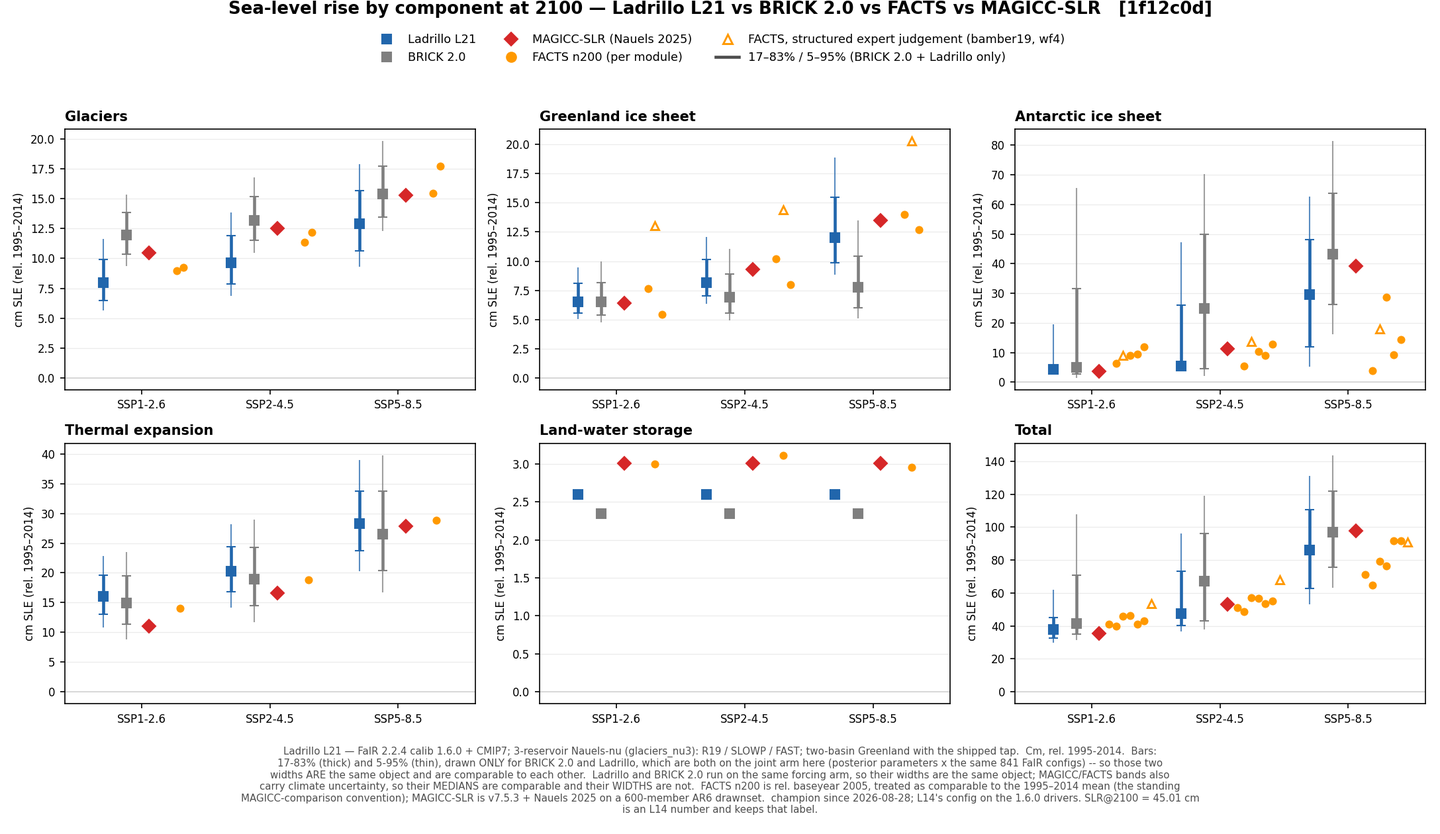
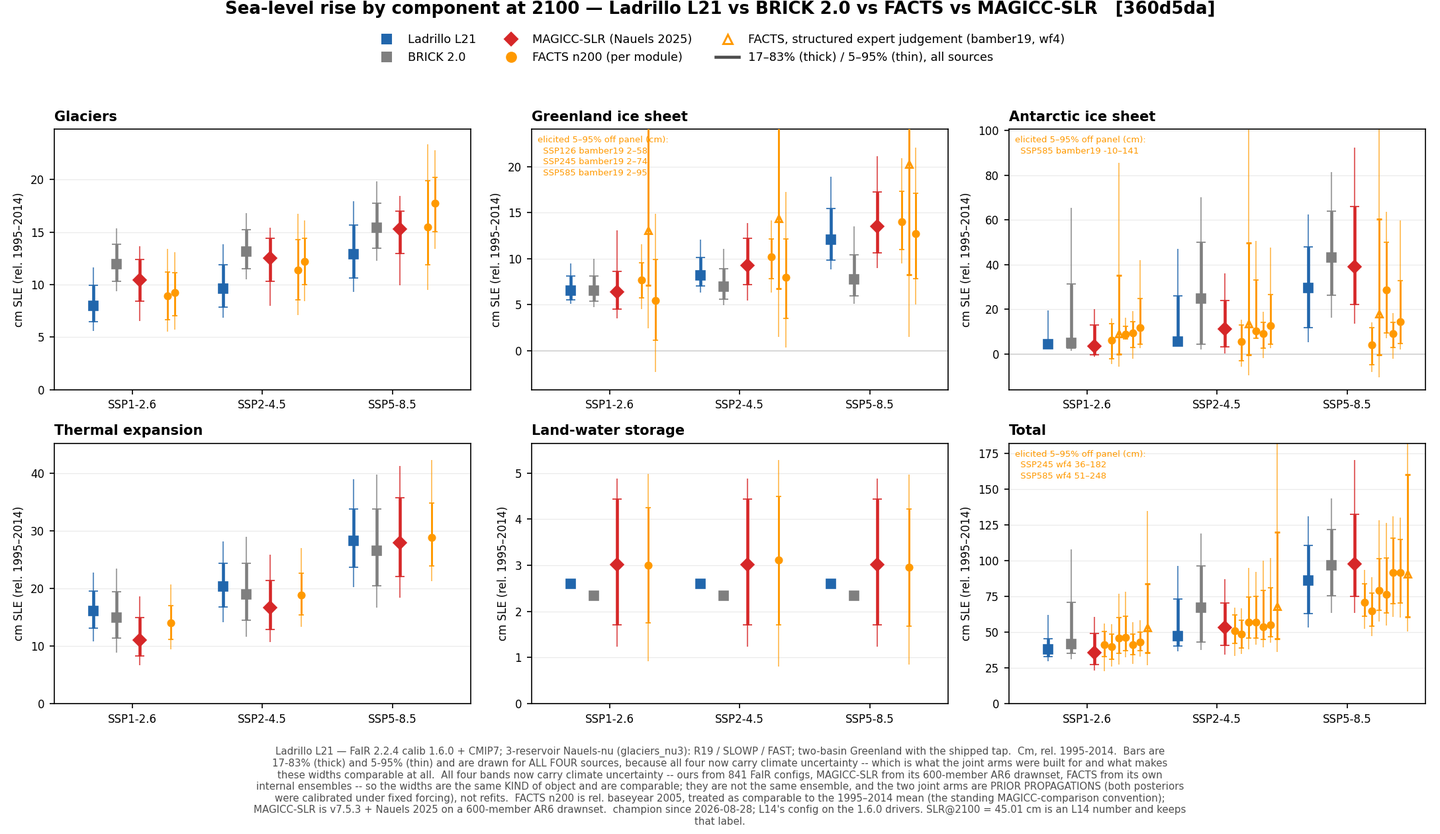
Draw all four bands, and withdraw the "not drivable" claim
Marcus asked whether we had not already built the arms that make our bands
comparable to MAGICC and FACTS. We had, on 2026-08-30, and this figure was
suppressing three of the four.

ladrillo_figs.WIDTH_SRCS restricted bars to Ladrillo and BRICK 2.0, with a
caveat that was true only while both our arms ran on MEAN forcing. The joint
arms propagate both posteriors across the same 841 FaIR configs precisely so
that stops being true -- brick20_joint_band records it as "every column of the
comparison now carries climate uncertainty, so the WIDTHS are like-for-like for
the first time". The source-name set is replaced by a predicate on each row's
own band_basis, which raises on an unrecognised string rather than guessing.

Verified against that memory's own table: total p17-p83 at ssp126/2100 comes
back Ladrillo 12.6, BRICK 35.8, MAGICC 21.5, FACTS wf1f 17.4 cm.

Mutation-testing caught a real bug: the parameter-only branch of the caption had
never executed and its literal % broke the format string.

Elicited whiskers are clipped and quantified rather than dropped or silently cut
-- bamber19's 5-95% at gis/ssp585/2100 spans 93.2 cm against 17.1 for the
next-widest module, and letting it set the axis costs ~5x of the resolution the
rest of the panel needs.

vv_model_comparison.py said MAGICC-SLR and FACTS were "not drivable" on the van
Vuuren markers. That was wrong: it read them as fixed data files because that is
[…]

diff --git a/python/plot_model_comparison_components.py b/python/plot_model_comparison_components.py
@@ -19,12 +19,24 @@ the three horizons inside a panel lets 2300 squash 2100 flat, which is the reada
 failure this layout avoids. It also matches `plot_b2_component_comparison.py`, so the two
 per-component comparison figures read as the same object.
 
-⚠ WIDTHS ARE DRAWN ONLY WHERE THEY ARE THE SAME OBJECT (`ladrillo_figs.WIDTH_SRCS`).
-Ladrillo and BRICK 2.0 are both on the JOINT arm here -- the same 841-config FaIR cubes,
-the same 2014 splice pivot, the same 1995-2014 re-reference -- so their bars are
-comparable to each other. MAGICC-SLR and FACTS bands additionally carry each model's own
-climate ensemble, so they are plotted as MEDIANS ONLY: a bar the reader cannot compare is
-worse than no bar. The exact bands are printed to the console for anyone who wants them.
+⚠ ALL FOUR BANDS ARE DRAWN, AND THAT IS THE POINT OF THE FIGURE. The first version of
+this script drew bars for Ladrillo and BRICK 2.0 only, inheriting `ladrillo_figs.WIDTH_SRCS`
+-- a set written when both our arms ran on MEAN forcing and were therefore
+posterior-parameter spread only. That has not been true since 2026-08-30: the Ladrillo and
+BRICK 2.0 joint arms propagate their posteriors across the SAME 841 FaIR configs, which is
+precisely why they were built (`brick20_joint_band` -- "every column of the comparison now
+carries climate uncertainty, so the WIDTHS are like-for-like for the first time"). Drawing
+only two of the four suppressed the comparison the joint arms exist to make. Whether a band
+may be drawn is now read from each row's OWN `band_basis` via
+`ladrillo_figs.band_is_comparable`, so a cell that falls back to the fixed (mean-forcing)
+arm loses its bar automatically and no source-name list can go stale again.
+
+⚠ SAME KIND OF OBJECT IS NOT THE SAME ENSEMBLE. Ours is 841 FaIR configs, MAGICC-SLR's is a
+600-member AR6 drawnset, FACTS uses its own internal ensembles -- and both joint arms are
+PRIOR PROPAGATIONS (the posteriors were calibrated under fixed forcing), not refits. The
+widths are comparable; they are not identical constructions, and the caption says so.
+⚠ Narrowness is never a win at ais/ssp585, where 78% of our width is the antarctic_lambda
+paleo prior rather than an inference.
 
 ⚠ FACTS IS NOT ONE NUMBER AND IS NOT DRAWN AS ONE. It is a stack of modules per component
 (ar5AIS / larmip / deconto21 / bamber19 at Antarctica, FittedISMIP / emuGrIS / bamber19 at
@@ -110,24 +122,34 @@ if _lad_mod != [TAG]:
 ## either width source is not wholly on a joint basis then "the bars are comparable" is
 ## FALSE, so the claim is dropped and the actual mix is stamped instead of asserted away.
 BASES = {s: sorted(set(D[D.source == s].band_basis.astype(str))) for s in SOURCES}
-_joint = {s: all(b.lower().startswith("joint") for b in BASES[s]) for s in lf.WIDTH_SRCS}
-WIDTHS_COMPARABLE = all(_joint.values())
+## ⚠ THE CAPTION'S COMPARABILITY CLAIM IS DERIVED FROM THE DATA, NEVER TYPED. Every row is
+## asked whether ITS OWN basis carries climate uncertainty; the predicate raises on a basis
+## string it does not recognise rather than guessing. Ladrillo's loader falls back to the
+## FIXED (mean-forcing) arm for any cell where the joint arm is the wrong Greenland arm, and
+## a fixed band is a narrower object for reasons that have nothing to do with the model -- so
+## such a cell must lose its bar, and the claim must weaken, without anyone remembering to.
+D["band_ok"] = D.band_basis.map(lf.band_is_comparable)
+PARAM_ONLY = sorted({(r.source, b) for r, b in
+                     zip(D[~D.band_ok].itertuples(), D[~D.band_ok].band_basis)})
+WIDTHS_COMPARABLE = bool(D.band_ok.all())
 if WIDTHS_COMPARABLE:
-    WIDTH_NOTE = ("Bars: 17-83%% (thick) and 5-95%% (thin), drawn ONLY for %s, which are "
-                  "both on the joint arm here (posterior parameters x the same 841 FaIR "
-                  "configs) -- so those two widths ARE the same object and are comparable "
-                  "to each other." % " and ".join(sorted(lf.WIDTH_SRCS)))
+    WIDTH_NOTE = ("Bars are 17-83% (thick) and 5-95% (thin) and are drawn for ALL FOUR "
+                  "sources, because all four now carry climate uncertainty -- which is "
+                  "what the joint arms were built for and what makes these widths "
+                  "comparable at all.")
 else:
-    WIDTH_NOTE = ("⚠ BAR WIDTHS ARE NOT COMPARABLE IN THIS FIGURE: " +
-                  "; ".join("%s = %s" % (s, " + ".join(BASES[s]))
-                            for s in sorted(lf.WIDTH_SRCS) if not _joint[s]) +
-                  " -- a fixed (mean-forcing) band is parameter spread only and is "
-                  "narrower than a joint one for reasons that have nothing to do with "
-                  "the model.")
+    WIDTH_NOTE = ("Bars are 17-83%% (thick) and 5-95%% (thin). ⚠ %d cell(s) are on a "
+                  "PARAMETER-ONLY basis and are drawn as medians with NO bar, because a "
+                  "fixed (mean-forcing) band is narrower than a joint one for reasons "
+                  "that have nothing to do with the model: %s."
+                  % ((~D.band_ok).sum(),
+                     "; ".join("%s = %s" % (a, b) for a, b in PARAM_ONLY)))
 for s in SOURCES:
     print("[BASIS] %-11s %s" % (s, " + ".join(BASES[s])))
-print("[BASIS] width sources on a joint basis: %s"
-      % ("YES -- bars comparable" if WIDTHS_COMPARABLE else "NO -- comparability claim dropped"))
+print("[BASIS] every row carries climate uncertainty: %s"
+      % ("YES -- all four bands drawn and comparable" if WIDTHS_COMPARABLE else
+         "NO -- %d parameter-only cell(s) drawn WITHOUT a bar: %s"
+         % ((~D.band_ok).sum(), PARAM_ONLY)))
 
 # --- gate: the frozen literature arm has not moved under us -----------------
 ## The FACTS and MAGICC rows are tag-INDEPENDENT comparators, frozen under
@@ -221,28 +243,33 @@ for YEAR in YEARS:
                 if s.empty:
                     continue
                 col = lf.SRC_COLOR[src]
-                if src in lf.WIDTH_SRCS:
-                    r = s.iloc[0]
-                    x = i + SLOT[src]
-                    ax.plot([x, x], [r.p05, r.p95], color=col, lw=1.0, alpha=0.75,
-                            solid_capstyle="butt", zorder=2)
-                    ax.errorbar(x, r.med,
-                                yerr=[[r.med - r.p17], [r.p83 - r.med]],
-                                fmt=MARK[src], color=col, ms=6.5, capsize=3.5, lw=2.2,
-                                zorder=3)
-                elif src == "MAGICC-SLR":
-                    r = s.iloc[0]
-                    ax.plot(i + SLOT[src], r.med, MARK[src], color=col, ms=7, zorder=3)
+                if src == "FACTS":
+                    ## FACTS: one series per MODULE, fanned inside its slot, so the
+                    ## DISAGREEMENT between modules is the thing the reader sees. A median
+                    ## across them would summarise nothing (`median_needs_agreement`).
+                    rows = [s[s.module == m].iloc[0] for m in sorted(s.module.astype(str))]
+                    x0 = i + SLOT[src] - FACTS_FAN * (len(rows) - 1) / 2
+                    xs = [x0 + j * FACTS_FAN for j in range(len(rows))]
                 else:
-                    ## FACTS: one marker per module, fanned around the slot centre so the
-                    ## DISAGREEMENT between modules is the thing the reader sees.
-                    mods = sorted(s.module.astype(str))
-                    x0 = i + SLOT[src] - FACTS_FAN * (len(mods) - 1) / 2
-                    for j, m in enumerate(mods):
-                        v = float(s[s.module == m].med.iloc[0])
-                        is_sej = CLASS.get(m, "model") == "sej"
-                        ax.plot(x0 + j * FACTS_FAN, v, SEJ_MARK if is_sej else MARK[src],
-                                ms=6 if is_sej else 5,
+                    rows, xs = [s.iloc[0]], [i + SLOT[src]]
+                for r, x in zip(rows, xs):
+                    is_sej = CLASS.get(str(r.module), "model") == "sej"
+                    mk = SEJ_MARK if is_sej else MARK[src]
+                    ms = (5.0 if src == "FACTS" else 6.5)
+                    if r.band_ok:
+                        ax.plot([x, x], [r.p05, r.p95], color=col,
+                                lw=0.8 if src == "FACTS" else 1.0, alpha=0.7,
+                                solid_capstyle="butt", zorder=2)
+                        ax.errorbar(x, r.med, yerr=[[r.med - r.p17], [r.p83 - r.med]],
+                                    fmt=mk, color=col, ms=ms,
+                                    capsize=2.0 if src == "FACTS" else 3.5,
+                                    lw=1.4 if src == "FACTS" else 2.2,
+                                    mfc="none" if is_sej else col, mec=col,
+                                    mew=1.4 if is_sej else 0.8, zorder=3)
+                    else:
+                        ## No bar: a parameter-only width next to three climate-inclusive
+                        ## ones would read as a narrow model rather than a narrow arm.
+                        ax.plot(x, r.med, mk, ms=ms, color=col,
                                 mfc="none" if is_sej else col, mec=col,
                                 mew=1.4 if is_sej else 0.8, zorder=3)
         ## Sources absent from THIS panel are named in the panel, not left as a silent
@@ -256,6 +283,29 @@ for YEAR in YEARS:
             ax.text(0.985, 0.03, "no " + ", ".join(gone) + " at %d" % YEAR,
                     transform=ax.transAxes, ha="right", va="bottom",
                     fontsize=7.2, color="0.35", style="italic")
+        ## ⚠ THE Y-AXIS IS SET BY THE SAMPLED SERIES, AND THE ELICITED ONE IS CLIPPED
+        ## AND NAMED. bamber19's 5-95% at gis/ssp585/2100 spans 93.2 cm against 17.1 cm
+        ## for the next-widest module: letting it drive the axis costs ~5x of the
+        ## resolution every other comparison in the panel needs. It is NOT dropped and
+        ## NOT quietly cut off -- the limits come from the sampling quantiles, and any
+        ## elicited whisker that runs past them is annotated WITH ITS VALUE, so the
+        ## reader is told exactly what is off the panel. (A structured expert judgement
+        ## is a deep-uncertainty envelope, not a sampled quantile: the two are already
+        ## different objects, which is why comparator_classes.csv exists at all.)
+        pan = D[(D.component == comp) & (D.year == YEAR)]
+        pan_sej = pan.module.astype(str).map(lambda m: CLASS.get(m, "model") == "sej")
+        lo = pd.concat([pan[~pan_sej].p05, pan.med]).min()
+        hi = pd.concat([pan[~pan_sej].p95, pan.med]).max()
+        pad = 0.08 * max(hi - lo, 1e-6)
+        ax.set_ylim(min(lo - pad, 0 if lo >= 0 else lo - pad), hi + pad)
+        clipped = ["%s %s %.0f–%.0f" % (r.scenario.replace("ssp", "SSP"), r.module,
+                                        r.p05, r.p95)
+                   for r in pan[pan_sej].itertuples() if r.band_ok and r.p95 > hi + pad]
+        if clipped:
+            ax.text(0.015, 0.975,
+                    "elicited 5–95% off panel (cm):\n  " + "\n  ".join(clipped),
+                    transform=ax.transAxes, ha="left", va="top", fontsize=6.3,
+                    linespacing=1.35, color=lf.SRC_COLOR["FACTS"])
         ax.axhline(0, color="0.85", lw=0.8, zorder=1)
         ax.set_xticks(range(len(SCENS)))
         ax.set_xticklabels([l for _k, l, _c2, _d in SCENS], fontsize=9)
@@ -280,8 +330,9 @@ for YEAR in YEARS:
                            label="FACTS, structured expert judgement (%s)"
                                  % ", ".join(sej_drawn))]
     handles += [Line2D([], [], color="0.3", lw=2.2,
-                       label="17–83%% / 5–95%% (%s only)"
-                             % " + ".join(sorted(lf.WIDTH_SRCS)))]
+                       label="17–83% (thick) / 5–95% (thin), all sources"
+                             if WIDTHS_COMPARABLE else
+                             "17–83% / 5–95% — absent where the arm is parameter-only")]
     fig.legend(handles=handles, ncol=3, fontsize=8.5, frameon=False,
                loc="upper center", bbox_to_anchor=(0.5, 0.972))
     fig.suptitle("Sea-level rise by component at %d — %s vs BRICK 2.0 vs FACTS vs "

diff --git a/python/vv_model_comparison.py b/python/vv_model_comparison.py
@@ -5,23 +5,51 @@ vv_model_comparison.py — Ladrillo against BRICK 2.0 on the seven van Vuuren CM
 SIBLING of ladrillo_model_comparison.py, NOT a flag on it. That script compares FOUR
 sources on THREE SSPs; this one compares TWO sources on SEVEN markers. They are different
 objects and merging them would let a van Vuuren run emit empty FACTS / MAGICC-SLR columns
-that read as "no data" when the truth is "not drivable" -- see WHY ONLY TWO below.
+that read as "no data" when the truth is "not run on this scenario set" -- see below.
 
   python3 python/vv_model_comparison.py [--tag=L21] [--no-tap]
 Writes outputs/vv_model_comparison_<TAG>{,_width,_gmst}.csv
 
-WHY ONLY TWO SOURCES (stated in the console banner too, so it cannot be lost):
+WHY ONLY TWO SOURCES TODAY (stated in the console banner too, so it cannot be lost):
   Ladrillo    ✅ ours -- scope_slr_fair_uncertainty.jl on the van Vuuren cubes
   BRICK 2.0   ✅ ours -- scope_slr_fairunc_oldbrick.jl on the SAME cubes
-  MAGICC-SLR  ❌ data/comparison/magicc_nauels_components.csv is a ONE-TIME extract from a
-                 members-only working copy. A van Vuuren MAGICC run would have to go
-                 through MAGICC's OWN climate from van Vuuren EMISSIONS; feeding it our
-                 GMST would destroy the independence that makes it a comparator.
-  FACTS       ❌ outputs/facts_components_n200.csv is an ingested n=200 quantile table,
-                 ssp126/245/585 only. No FACTS install and no builder script in this repo.
-  ⇒ The SSP set is an INTERSECTION WITH THE PUBLISHED LITERATURE, not a preference, and it
-    does not become superfluous. van Vuuren is a SECOND AXIS (process / commitment), not a
-    replacement for the comparison axis.
+  MAGICC-SLR  ⬜ NOT RUN -- but RUNNABLE, see below
+  FACTS       ⬜ NOT RUN -- but RUNNABLE, see below
+  ⇒ The SSP set is an INTERSECTION WITH THE PUBLISHED LITERATURE and does not become
+    superfluous. van Vuuren is a SECOND AXIS (process / commitment), not a replacement.
+
+⚠ CORRECTED 2026-08-31 -- THIS HEADER USED TO SAY "NOT DRIVABLE", AND THAT WAS WRONG.
+It read the two comparators as fixed data files because that is all THIS repo holds. Both
+models are in fact installed and driven on this machine, and both CAN be run on the van
+Vuuren markers. What follows is the real state, so that nobody re-derives "impossible" from
+a file listing again. NEITHER IS A SMALL JOB, and neither has been done -- "runnable" is not
+"run", and this script still compares two sources until one of them is.
+
+  MAGICC-SLR -- the pipeline is LIVE: the custom Nauels-2025 SLR build
+    ~/Documents/2026/CodeProjects/MAGICC/magiccv.7.5.3/bin/magicc (commit b1fa246, the exact
+    hash notebook 302 asserts), the conda env ~/miniforge3/envs/slr-refresh-2025, the
+    600-member with_slr drawnset, and notebooks 200 -> 302 -> 400. It runs from EMISSIONS,
+    which is what preserves its independence -- and THE VAN VUUREN MARKER EMISSIONS EXIST:
+    FaIRtoFrEDI/data/vanvuuren/spliced_ext_harmonized/*.csv, 51 species x 1750-2300, in the
+    same scenario/region/variable/unit + year-columns wide layout notebook 200 already reads
+    from RCMIP. The work is the VARIABLE-NAME MAP into openscm-runner's namespace plus a
+    coverage gate -- MAGICC silently zeroes a species it is not handed, so an unmapped name
+    is a quiet emissions cut, not an error.
+
+  FACTS -- installed and engine-validated on this Mac via Colima
+    (~/Documents/2026/CodeProjects/facts), and the external-climate injection seam is a
+    COMPLETED PoC: facts/build_fair_climate_nc.py writes the three NetCDFs FACTS consumes
+    from our FaIR GMST+OHC, and we already have the van Vuuren cubes it needs
+    (data/observations/fair_mean_{gmst,ohc}_vv*.csv, all seven markers).
+    ⚠ TWO THINGS THAT MUST BE STATED IF IT IS RUN:
+      (1) HORIZON. FACTS reaches 2150 at best and 2100 for the emulandice workflows. It
+          CANNOT produce a 2300 column for van Vuuren any more than it can for the SSPs.
+      (2) CONVENTION. An injected-climate FACTS run is not the same object as the ingested
+          ssp126/245/585 table, which uses FACTS-INTERNAL FaIR-1.6.4. Mixing them straddles
+          two climate-driver conventions. The measured size of that gap is ~2-5% on GMSL
+          (against 30-50% for swapping the ice-sheet workflow), so it is small -- but it is
+          a convention, and the fix is to re-run the three SSPs injected as well so both
+          sets share one. Precedent exists: global.coupling.ssp245.fairv145.
 
 BANDS. Both models are on their OWN JOINT arm -- posterior parameters x 841 FaIR configs,
 same cubes, same 2014 splice pivot, same 1995-2014 re-reference, same PAIR_SEED, same
@@ -265,7 +293,8 @@ def band(b):
 
 def main():
     print(__doc__.split("WHY ONLY TWO SOURCES")[1].split("BANDS.")[0]
-          .replace("(stated in the console banner too, so it cannot be lost):", "").strip())
+          .replace("TODAY (stated in the console banner too, so it cannot be lost):",
+                   "TODAY -- and the other two are RUNNABLE, not impossible:").strip())
     print()
 
     gates, LAD, BRK, SEQ = {}, {}, {}, {}

diff --git a/python/ladrillo_figs.py b/python/ladrillo_figs.py
@@ -40,12 +40,54 @@ COMP_TITLE = {"glaciers": "Glaciers", "gis": "Greenland ice sheet",
 # --- sources ---------------------------------------------------------------
 SRC_COLOR = {"Ladrillo": "#2166ac", "BRICK 2.0": "#7f7f7f",
              "MAGICC-SLR": "#d62728", "FACTS": "#ff9900"}
-## THE BAND CAVEAT, reproduced verbatim wherever a width is drawn. Error bars/bands are
-## drawn ONLY for sources whose widths are the same object; everything else is medians-only.
-WIDTH_SRCS = {"Ladrillo", "BRICK 2.0"}
-BAND_CAVEAT = ("Ladrillo and BRICK 2.0 run on the same forcing arm, so their widths are "
-               "the same object; MAGICC/FACTS bands also carry climate uncertainty, so "
-               "their MEDIANS are comparable and their WIDTHS are not.")
+
+## WHETHER A WIDTH MAY BE DRAWN IS A PROPERTY OF THE ARM, NOT OF THE SOURCE NAME.
+##
+## ⚠ CORRECTED 2026-08-31. This module shipped a `WIDTH_SRCS = {"Ladrillo", "BRICK 2.0"}`
+## set with the caveat "MAGICC/FACTS bands ALSO carry climate uncertainty, so their MEDIANS
+## are comparable and their WIDTHS are not". That sentence encodes the state of the world
+## BEFORE 2026-08-30, when both our arms ran on MEAN forcing and were therefore
+## posterior-parameter spread only. It is now FALSE for any product built on the joint arm:
+## `scope_slr_fair_uncertainty.jl` and `scope_slr_fairunc_oldbrick.jl` propagate the
+## Ladrillo and BRICK 2.0 posteriors across the SAME 841 FaIR configs, so those bands carry
+## climate uncertainty too -- which is the entire reason the joint arms were built
+## (`brick20_joint_band`: "every column of the comparison now carries climate uncertainty,
+## so the WIDTHS are like-for-like for the first time"). Keeping the old set suppressed
+## three of the four bands on the one figure where they were finally comparable.
+##
+## The predicate reads the row's OWN `band_basis` string instead, so a cell that falls back
+## to the fixed arm loses its band automatically and no source-name list can go stale again.
+BASIS_CARRIES_CLIMATE = ("joint", "climate + parameter")
+BASIS_PARAM_ONLY = ("fixed",)
+
+
+def band_is_comparable(basis):
+    """True when this row's band carries CLIMATE uncertainty as well as parameter spread.
+
+    Joint arms (ours) and the MAGICC/FACTS native ensembles all do; a `fixed
+    (posterior params, mean forcing)` band does not, and is a narrower object for reasons
+    that have nothing to do with the model. Unrecognised bases raise rather than default:
+    guessing which kind of band an unknown string describes is how the stale set survived."""
+    b = str(basis).strip().lower()
+    if b.startswith(BASIS_PARAM_ONLY):
+        return False
+    if b.startswith(BASIS_CARRIES_CLIMATE):
+        return True
+    raise SystemExit(
+        "unrecognised band_basis %r -- refusing to guess whether it carries climate "
+        "uncertainty. Add it to ladrillo_figs.BASIS_CARRIES_CLIMATE or BASIS_PARAM_ONLY."
+        % basis)
+
+
+## The caveat that survives the correction. Climate uncertainty is now present on every
+## arm, but the ENSEMBLES generating it are not the same ensemble, and two of the four
+## bands are prior propagations rather than refits.
+BAND_CAVEAT = ("All four bands now carry climate uncertainty -- ours from 841 FaIR "
+               "configs, MAGICC-SLR from its 600-member AR6 drawnset, FACTS from its own "
+               "internal ensembles -- so the widths are the same KIND of object and are "
+               "comparable; they are not the same ensemble, and the two joint arms are "
+               "PRIOR PROPAGATIONS (both posteriors were calibrated under fixed forcing), "
+               "not refits.")
 
 # --- scenario sets ---------------------------------------------------------
 ## One table per set: (key, label, colour). The van Vuuren table additionally carries the

diff --git a/CHANGELOG.md b/CHANGELOG.md
@@ -3,7 +3,60 @@
 All notable changes to this project. Older history reconstructed from the
 commit log; recent entries are explicit.
 
-## 2026-08-31 (latest) — the four-source component figure: Ladrillo vs BRICK 2.0 vs FACTS vs MAGICC
+## 2026-08-31 (latest) — all four bands drawn, and the "not drivable" claim withdrawn
+
+**Marcus asked whether we had not already built the arms that make our bands comparable to
+MAGICC and FACTS. We had, on 2026-08-30, and the figure below was suppressing three of the
+four.** `ladrillo_figs.WIDTH_SRCS` restricted error bars to Ladrillo and BRICK 2.0 with the
+caveat "MAGICC/FACTS bands ALSO carry climate uncertainty, so their MEDIANS are comparable
+and their WIDTHS are not" — a sentence that was true only while both our arms ran on MEAN
+forcing. The joint arms propagate both posteriors across the same 841 FaIR configs precisely
+so that stops being true (`brick20_joint_band`: *"every column of the comparison now carries
+climate uncertainty, so the WIDTHS are like-for-like for the first time"*).
+
+The source-name set is **replaced by a predicate on the row's own `band_basis`**
+(`ladrillo_figs.band_is_comparable`), which raises on a basis string it does not recognise
+rather than guessing. A cell that falls back to the fixed arm now loses its bar and weakens
+the caption automatically. All four sources are drawn at 17–83% and 5–95%.
+
+Verified against `brick20_joint_band`'s own table — total p17–p83 at ssp126/2100: Ladrillo
+12.6, BRICK 2.0 35.8, MAGICC 21.5, FACTS wf1f 17.4 cm. Reproduced exactly.
+
+**A mutation test caught a real bug**: the parameter-only branch of the caption had never
+executed and its literal `%` broke the format string. It would have fired the first time a
+cell fell back to the fixed arm.
+
+**Elicited whiskers are clipped and quantified, not dropped and not silently cut.** bamber19's
+5–95% at gis/ssp585/2100 spans 93.2 cm against 17.1 for the next-widest module; letting it set
+the axis costs ~5× of the resolution every other comparison needs. Limits come from the
+sampling quantiles; any elicited whisker past them is annotated with its value.
+
+### The van Vuuren question: both comparators ARE runnable, and the header saying otherwise is fixed
+
+`vv_model_comparison.py` claimed MAGICC-SLR and FACTS were "not drivable" on the van Vuuren
+markers. **That was wrong** — it read the two comparators as fixed data files because that is
+all *this repo* holds. Corrected in place:
+
+* **MAGICC-SLR.** The pipeline is live: the custom Nauels-2025 build `magiccv.7.5.3/bin/magicc`
+  (commit `b1fa246`, the hash notebook 302 asserts), the `slr-refresh-2025` conda env, the
+  600-member with_slr drawnset, notebooks 200→302→400. It runs from EMISSIONS, which is what
+  preserves its independence — and **the van Vuuren marker emissions exist**:
+  `FaIRtoFrEDI/data/vanvuuren/spliced_ext_harmonized/*.csv`, 51 species × 1750–2300, in the
+  same wide layout notebook 200 already reads from RCMIP. The work is the variable-name map
+  into openscm-runner's namespace plus a coverage gate — MAGICC silently zeroes a species it
+  is not handed, so an unmapped name is a quiet emissions cut, not an error.
+* **FACTS.** Installed and engine-validated on this Mac via Colima, and the external-climate
+  injection seam is a completed PoC (`facts/build_fair_climate_nc.py`). The van Vuuren cubes
+  it needs already exist. ⚠ **FACTS reaches 2150 at best, 2100 for emulandice** — it cannot
+  produce a 2300 column for van Vuuren any more than for the SSPs. ⚠ An injected-climate run
+  is a different convention from the ingested SSP table (FACTS-internal FaIR-1.6.4); the gap
+  is ~2–5% on GMSL against 30–50% for swapping the ice-sheet workflow, but it is a convention
+  and the fix is to re-run the three SSPs injected too.
+
+**Neither has been run.** "Runnable" is not "run", and `vv_model_comparison.py` still compares
+two sources until one of them is.
+
+## 2026-08-31 — the four-source component figure: Ladrillo vs BRICK 2.0 vs FACTS vs MAGICC
 
 `python/plot_model_comparison_components.py` — the first FIGURE carrying all four projection
 sources, and the first to carry 2300. One file per horizon:
